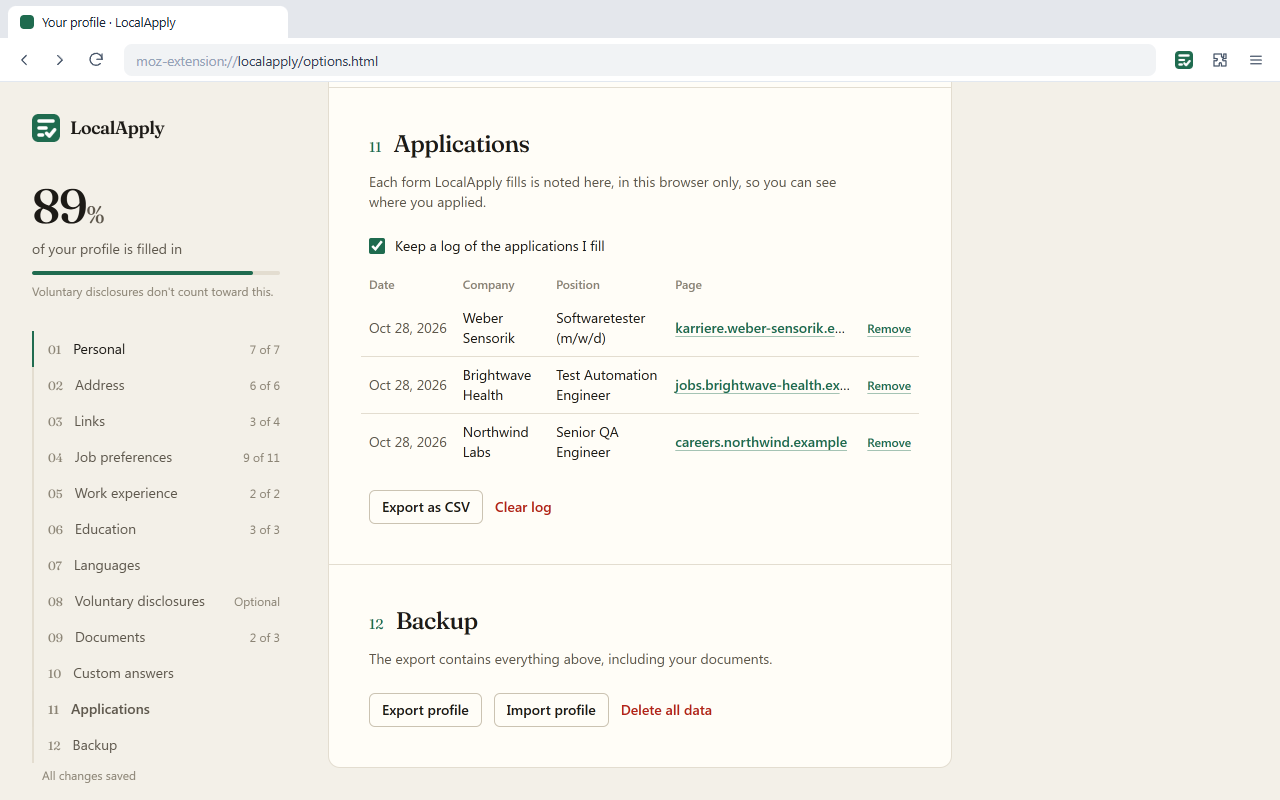
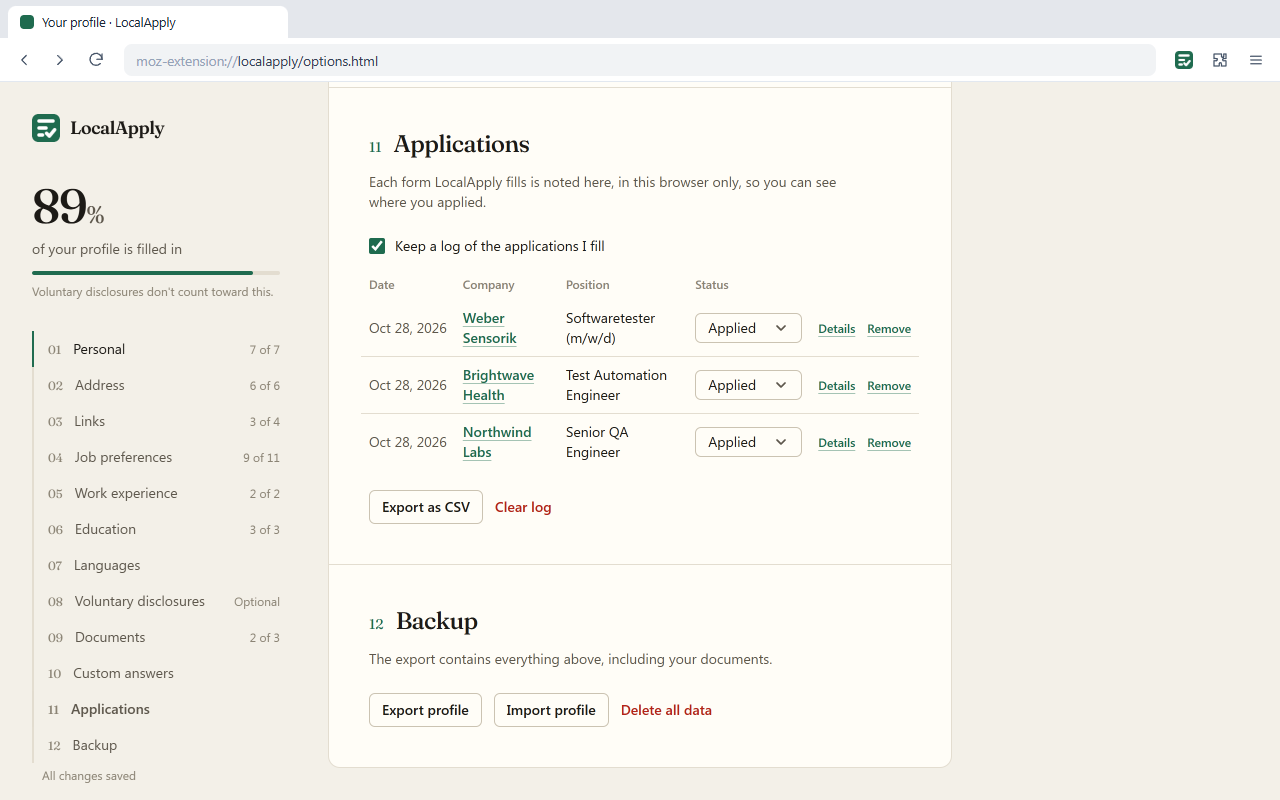
Store listings and images for 0.10.0

diff --git a/store/firefox/description.fr.md b/store/firefox/description.fr.md
@@ -22,10 +22,11 @@ Arrêtez de recopier votre CV dans chaque candidature. LocalApply enregistre vos
 - Expérience et formation, une entrée par bloc dans les formulaires qui listent plusieurs postes ou écoles, et votre plus haut niveau d’études
 - Plusieurs profils, par exemple un par langue ou type de poste, à choisir dans la fenêtre de l’extension
 - CV et lettre de motivation en fichier, et texte de la lettre de motivation
+- Les candidatures sur plusieurs pages, étape par étape, et des blocs de postes ou de formations en plus quand le formulaire a un bouton Ajouter
 
 **Où il fonctionne**
 
-Greenhouse, Ashby, Personio, Recruitee, Teamtailor et les pages carrières ordinaires des entreprises, avec un traitement spécifique pour Workday, Lever, SmartRecruiters, SAP SuccessFactors et LinkedIn Easy Apply.
+Greenhouse, Ashby, Personio, Recruitee, Teamtailor et les pages carrières ordinaires des entreprises, avec un traitement spécifique pour Workday, Lever, SmartRecruiters, SAP SuccessFactors et LinkedIn Easy Apply. Workable, iCIMS, Taleo, softgarden, d.vinci, rexx, Umantis et JOIN sont également reconnus.
 
 **Comment l’utiliser**
 
@@ -38,7 +39,7 @@ Greenhouse, Ashby, Personio, Recruitee, Teamtailor et les pages carrières ordin
 - Ne clique jamais sur « Envoyer » ou « Suivant » et ne coche jamais de case de consentement.
 - Ne touche pas aux champs que vous avez déjà remplis.
 - Exportez votre profil dans un fichier, ou supprimez tout en un clic.
-- Le journal des candidatures remplies reste lui aussi sur votre ordinateur, et la fenêtre de l’extension vous signale une entreprise où vous avez déjà postulé ; désactivez-le, videz-le ou exportez-le en CSV.
+- Le journal des candidatures remplies, avec statut, notes et description du poste, reste lui aussi sur votre ordinateur, et la fenêtre de l’extension vous signale une entreprise où vous avez déjà postulé ; désactivez-le, videz-le ou exportez-le en CSV.
 
 **Pourquoi il a besoin d’accéder à tous les sites**
 

diff --git a/store/firefox/description.de.md b/store/firefox/description.de.md
@@ -21,10 +21,11 @@ Schluss damit, den Lebenslauf in jede Bewerbung abzutippen. LocalApply speichert
 - Berufserfahrung und Ausbildung, ein Eintrag pro Block in Formularen mit mehreren Stationen, und dein höchster Bildungsabschluss
 - Mehrere Profile, etwa eines pro Sprache oder Art von Stelle, im Pop-up auswählbar
 - Lebenslauf und Anschreiben als Datei sowie Anschreiben als Text
+- Bewerbungen über mehrere Seiten, Schritt für Schritt, und weitere Stellen- oder Ausbildungsblöcke, wenn das Formular einen Hinzufügen-Knopf hat
 
 **Wo es funktioniert**
 
-Greenhouse, Ashby, Personio, Recruitee, Teamtailor und gewöhnliche Karriereseiten von Unternehmen, dazu eigene Anpassungen für Workday, Lever, SmartRecruiters, SAP SuccessFactors und LinkedIn Easy Apply.
+Greenhouse, Ashby, Personio, Recruitee, Teamtailor und gewöhnliche Karriereseiten von Unternehmen, dazu eigene Anpassungen für Workday, Lever, SmartRecruiters, SAP SuccessFactors und LinkedIn Easy Apply. Workable, iCIMS, Taleo, softgarden, d.vinci, rexx, Umantis und JOIN werden ebenfalls erkannt.
 
 **So nutzt du es**
 
@@ -37,7 +38,7 @@ Greenhouse, Ashby, Personio, Recruitee, Teamtailor und gewöhnliche Karriereseit
 - Klickt nie auf „Absenden" oder „Weiter" und setzt keine Einwilligungshäkchen.
 - Lässt Felder, die du schon ausgefüllt hast, unverändert.
 - Exportiere dein Profil als Datei oder lösche alles mit einem Klick.
-- Auch das Protokoll deiner ausgefüllten Bewerbungen bleibt auf deinem Rechner, und das Pop-up sagt dir, wenn du dich schon einmal bei einer Firma beworben hast; schalte es ab, leere es oder exportiere es als CSV.
+- Auch das Protokoll deiner ausgefüllten Bewerbungen, mit Stand, Notizen und Stellenbeschreibung, bleibt auf deinem Rechner, und das Pop-up sagt dir, wenn du dich schon einmal bei einer Firma beworben hast; schalte es ab, leere es oder exportiere es als CSV.
 
 **Warum Zugriff auf alle Websites nötig ist**
 

diff --git a/store/firefox/description.es.md b/store/firefox/description.es.md
@@ -22,10 +22,11 @@ Deja de copiar tu CV en cada candidatura. LocalApply guarda tus datos una vez, s
 - Experiencia y formación, una entrada por bloque en formularios con varios empleos o centros, y tu nivel de estudios más alto
 - Varios perfiles, por ejemplo uno por idioma o tipo de puesto, que eliges en la ventana de la extensión
 - CV y carta de presentación como archivo, y texto de la carta
+- Candidaturas de varias páginas, paso a paso, y bloques de empleo o estudios adicionales cuando el formulario tiene un botón Añadir
 
 **Dónde funciona**
 
-Greenhouse, Ashby, Personio, Recruitee, Teamtailor y las páginas de empleo normales de las empresas, con un tratamiento específico para Workday, Lever, SmartRecruiters, SAP SuccessFactors y LinkedIn Easy Apply.
+Greenhouse, Ashby, Personio, Recruitee, Teamtailor y las páginas de empleo normales de las empresas, con un tratamiento específico para Workday, Lever, SmartRecruiters, SAP SuccessFactors y LinkedIn Easy Apply. También reconoce Workable, iCIMS, Taleo, softgarden, d.vinci, rexx, Umantis y JOIN.
 
 **Cómo se usa**
 
@@ -38,7 +39,7 @@ Greenhouse, Ashby, Personio, Recruitee, Teamtailor y las páginas de empleo norm
 - Nunca pulsa «Enviar» ni «Siguiente» y nunca marca casillas de consentimiento.
 - No toca los campos que ya has rellenado.
 - Exporta tu perfil a un archivo o bórralo todo con un clic.
-- El registro de las candidaturas que rellenas también se queda en tu ordenador, y la ventana de la extensión te avisa si ya te postulaste en una empresa; desactívalo, vacíalo o expórtalo como CSV.
+- El registro de las candidaturas que rellenas, con estado, notas y descripción del puesto, también se queda en tu ordenador, y la ventana de la extensión te avisa si ya te postulaste en una empresa; desactívalo, vacíalo o expórtalo como CSV.
 
 **Por qué necesita acceso a todos los sitios web**
 

diff --git a/store/firefox/description.nl.md b/store/firefox/description.nl.md
@@ -22,10 +22,11 @@ Stop met je cv overtypen in elke sollicitatie. LocalApply bewaart je gegevens é
 - Werkervaring en opleiding, één item per blok in formulieren met meerdere banen of scholen, en je hoogst genoten opleiding
 - Meerdere profielen, bijvoorbeeld één per taal of soort functie, te kiezen in het venster van de extensie
 - Cv en motivatiebrief als bestand, en de tekst van de motivatiebrief
+- Sollicitaties over meerdere pagina’s, stap voor stap, en extra baan- of opleidingsblokken als het formulier een knop Toevoegen heeft
 
 **Waar het werkt**
 
-Greenhouse, Ashby, Personio, Recruitee, Teamtailor en gewone vacaturepagina’s van bedrijven, met een eigen aanpak voor Workday, Lever, SmartRecruiters, SAP SuccessFactors en LinkedIn Easy Apply.
+Greenhouse, Ashby, Personio, Recruitee, Teamtailor en gewone vacaturepagina’s van bedrijven, met een eigen aanpak voor Workday, Lever, SmartRecruiters, SAP SuccessFactors en LinkedIn Easy Apply. Workable, iCIMS, Taleo, softgarden, d.vinci, rexx, Umantis en JOIN worden ook herkend.
 
 **Zo gebruik je het**
 
@@ -38,7 +39,7 @@ Greenhouse, Ashby, Personio, Recruitee, Teamtailor en gewone vacaturepagina’s 
 - Klikt nooit op "Versturen" of "Volgende" en vinkt nooit toestemmingsvakjes aan.
 - Laat velden die je al hebt ingevuld met rust.
 - Exporteer je profiel naar een bestand of verwijder alles met één klik.
-- Ook het logboek van ingevulde sollicitaties blijft op je computer, en het venster van de extensie meldt het als je al eerder bij een bedrijf solliciteerde; zet het uit, wis het of exporteer het als CSV.
+- Ook het logboek van ingevulde sollicitaties, met status, notities en functieomschrijving, blijft op je computer, en het venster van de extensie meldt het als je al eerder bij een bedrijf solliciteerde; zet het uit, wis het of exporteer het als CSV.
 
 **Waarom het toegang tot alle websites vraagt**
 

diff --git a/store/firefox/description.it.md b/store/firefox/description.it.md
@@ -22,10 +22,11 @@ Basta ricopiare il CV in ogni candidatura. LocalApply salva i tuoi dati una volt
 - Esperienze e istruzione, una voce per blocco nei moduli con più lavori o scuole, e il titolo di studio più alto
 - Più profili, ad esempio uno per lingua o tipo di lavoro, da scegliere nella finestra dell’estensione
 - CV e lettera di presentazione come file, e testo della lettera
+- Candidature su più pagine, passo dopo passo, e blocchi di lavoro o di studio in più quando il modulo ha un pulsante Aggiungi
 
 **Dove funziona**
 
-Greenhouse, Ashby, Personio, Recruitee, Teamtailor e le normali pagine carriere delle aziende, con una gestione dedicata per Workday, Lever, SmartRecruiters, SAP SuccessFactors e LinkedIn Easy Apply.
+Greenhouse, Ashby, Personio, Recruitee, Teamtailor e le normali pagine carriere delle aziende, con una gestione dedicata per Workday, Lever, SmartRecruiters, SAP SuccessFactors e LinkedIn Easy Apply. Riconosce anche Workable, iCIMS, Taleo, softgarden, d.vinci, rexx, Umantis e JOIN.
 
 **Come si usa**
 
@@ -38,7 +39,7 @@ Greenhouse, Ashby, Personio, Recruitee, Teamtailor e le normali pagine carriere 
 - Non preme mai «Invia» o «Avanti» e non spunta mai caselle di consenso.
 - Lascia invariati i campi che hai già compilato.
 - Esporta il profilo in un file o elimina tutto con un clic.
-- Anche il registro delle candidature compilate resta sul tuo computer, e la finestra dell’estensione ti avvisa se hai già inviato una candidatura a un’azienda; disattivalo, svuotalo o esportalo in CSV.
+- Anche il registro delle candidature compilate, con stato, note e descrizione del lavoro, resta sul tuo computer, e la finestra dell’estensione ti avvisa se hai già inviato una candidatura a un’azienda; disattivalo, svuotalo o esportalo in CSV.
 
 **Perché chiede l’accesso a tutti i siti**
 

diff --git a/store/firefox/description.pt.md b/store/firefox/description.pt.md
@@ -22,10 +22,11 @@ Chega de copiar o CV para cada candidatura. O LocalApply guarda os seus dados um
 - Experiência e formação, uma entrada por bloco em formulários com vários empregos ou escolas, e o seu nível de escolaridade mais alto
 - Vários perfis, por exemplo um por língua ou tipo de cargo, escolhidos na janela da extensão
 - CV e carta de apresentação em ficheiro, e texto da carta
+- Candidaturas de várias páginas, passo a passo, e blocos de emprego ou formação extra quando o formulário tem um botão Adicionar
 
 **Onde funciona**
 
-Greenhouse, Ashby, Personio, Recruitee, Teamtailor e as páginas de carreiras normais das empresas, com tratamento específico para Workday, Lever, SmartRecruiters, SAP SuccessFactors e LinkedIn Easy Apply.
+Greenhouse, Ashby, Personio, Recruitee, Teamtailor e as páginas de carreiras normais das empresas, com tratamento específico para Workday, Lever, SmartRecruiters, SAP SuccessFactors e LinkedIn Easy Apply. Também reconhece Workable, iCIMS, Taleo, softgarden, d.vinci, rexx, Umantis e JOIN.
 
 **Como usar**
 
@@ -38,7 +39,7 @@ Greenhouse, Ashby, Personio, Recruitee, Teamtailor e as páginas de carreiras no
 - Nunca clica em «Enviar» ou «Seguinte» e nunca marca caixas de consentimento.
 - Não mexe nos campos que já preencheu.
 - Exporte o perfil para um ficheiro ou apague tudo com um clique.
-- O registo das candidaturas que preenche também fica no seu computador, e a janela da extensão avisa quando já se candidatou a uma empresa; desative-o, limpe-o ou exporte-o como CSV.
+- O registo das candidaturas que preenche, com estado, notas e descrição da vaga, também fica no seu computador, e a janela da extensão avisa quando já se candidatou a uma empresa; desative-o, limpe-o ou exporte-o como CSV.
 
 **Porque precisa de acesso a todos os sites**
 

diff --git a/store/firefox/description.pl.md b/store/firefox/description.pl.md
@@ -22,10 +22,11 @@ Koniec z przepisywaniem CV do każdej aplikacji. LocalApply zapisuje Twoje dane 
 - Doświadczenie i wykształcenie, jeden wpis na blok w formularzach z kilkoma miejscami pracy lub szkołami, oraz najwyższy poziom wykształcenia
 - Kilka profili, np. jeden na język lub rodzaj pracy, wybierany w oknie rozszerzenia
 - CV i list motywacyjny jako plik oraz treść listu motywacyjnego
+- Aplikacje na wielu stronach, krok po kroku, oraz dodatkowe bloki stanowisk lub szkół, gdy formularz ma przycisk Dodaj
 
 **Gdzie działa**
 
-Greenhouse, Ashby, Personio, Recruitee, Teamtailor i zwykłe strony kariery firm, a do tego osobna obsługa Workday, Lever, SmartRecruiters, SAP SuccessFactors i LinkedIn Easy Apply.
+Greenhouse, Ashby, Personio, Recruitee, Teamtailor i zwykłe strony kariery firm, a do tego osobna obsługa Workday, Lever, SmartRecruiters, SAP SuccessFactors i LinkedIn Easy Apply. Rozpoznaje też Workable, iCIMS, Taleo, softgarden, d.vinci, rexx, Umantis i JOIN.
 
 **Jak z niego korzystać**
 
@@ -38,7 +39,7 @@ Greenhouse, Ashby, Personio, Recruitee, Teamtailor i zwykłe strony kariery firm
 - Nigdy nie klika „Wyślij” ani „Dalej” i nigdy nie zaznacza zgód.
 - Nie zmienia pól, które już wypełniłeś.
 - Wyeksportuj profil do pliku albo usuń wszystko jednym kliknięciem.
-- Dziennik wypełnionych aplikacji też zostaje na Twoim komputerze, a okienko rozszerzenia przypomina, gdy firma jest już w dzienniku; wyłącz go, wyczyść albo wyeksportuj jako CSV.
+- Dziennik wypełnionych aplikacji, ze statusem, notatkami i opisem stanowiska, też zostaje na Twoim komputerze, a okienko rozszerzenia przypomina, gdy firma jest już w dzienniku; wyłącz go, wyczyść albo wyeksportuj jako CSV.
 
 **Dlaczego potrzebuje dostępu do wszystkich stron**
 

diff --git a/store/firefox/description.en.md b/store/firefox/description.en.md
@@ -21,10 +21,11 @@ Stop retyping your CV into every job application. LocalApply saves your details 
 - Work history and education, one entry per block on forms that list several jobs or schools, and your highest education level
 - Several profiles, for example one per language or kind of job, chosen in the popup
 - CV and cover letter uploads, and cover letter text
+- Applications over several pages, step by step, and extra job or school blocks when the form has an Add button
 
 **Where it works**
 
-Greenhouse, Ashby, Personio, Recruitee, Teamtailor and ordinary company career pages, with site-specific handling for Workday, Lever, SmartRecruiters, SAP SuccessFactors and LinkedIn Easy Apply.
+Greenhouse, Ashby, Personio, Recruitee, Teamtailor and ordinary company career pages, with site-specific handling for Workday, Lever, SmartRecruiters, SAP SuccessFactors and LinkedIn Easy Apply. Workable, iCIMS, Taleo, softgarden, d.vinci, rexx, Umantis and JOIN are recognised too.
 
 **How to use it**
 
@@ -37,7 +38,7 @@ Greenhouse, Ashby, Personio, Recruitee, Teamtailor and ordinary company career p
 - Never presses Submit or Next, and never ticks consent boxes.
 - Leaves fields you have already filled in alone.
 - Export your profile to a file, or delete everything with one click.
-- A log of the applications you filled stays on your computer too, and the popup tells you when you applied to a company before; turn it off, clear it or export it as CSV.
+- A log of the applications you filled, with status, notes and the job description, stays on your computer too, and the popup tells you when you applied to a company before; turn it off, clear it or export it as CSV.
 
 **Why it needs access to all websites**
 
